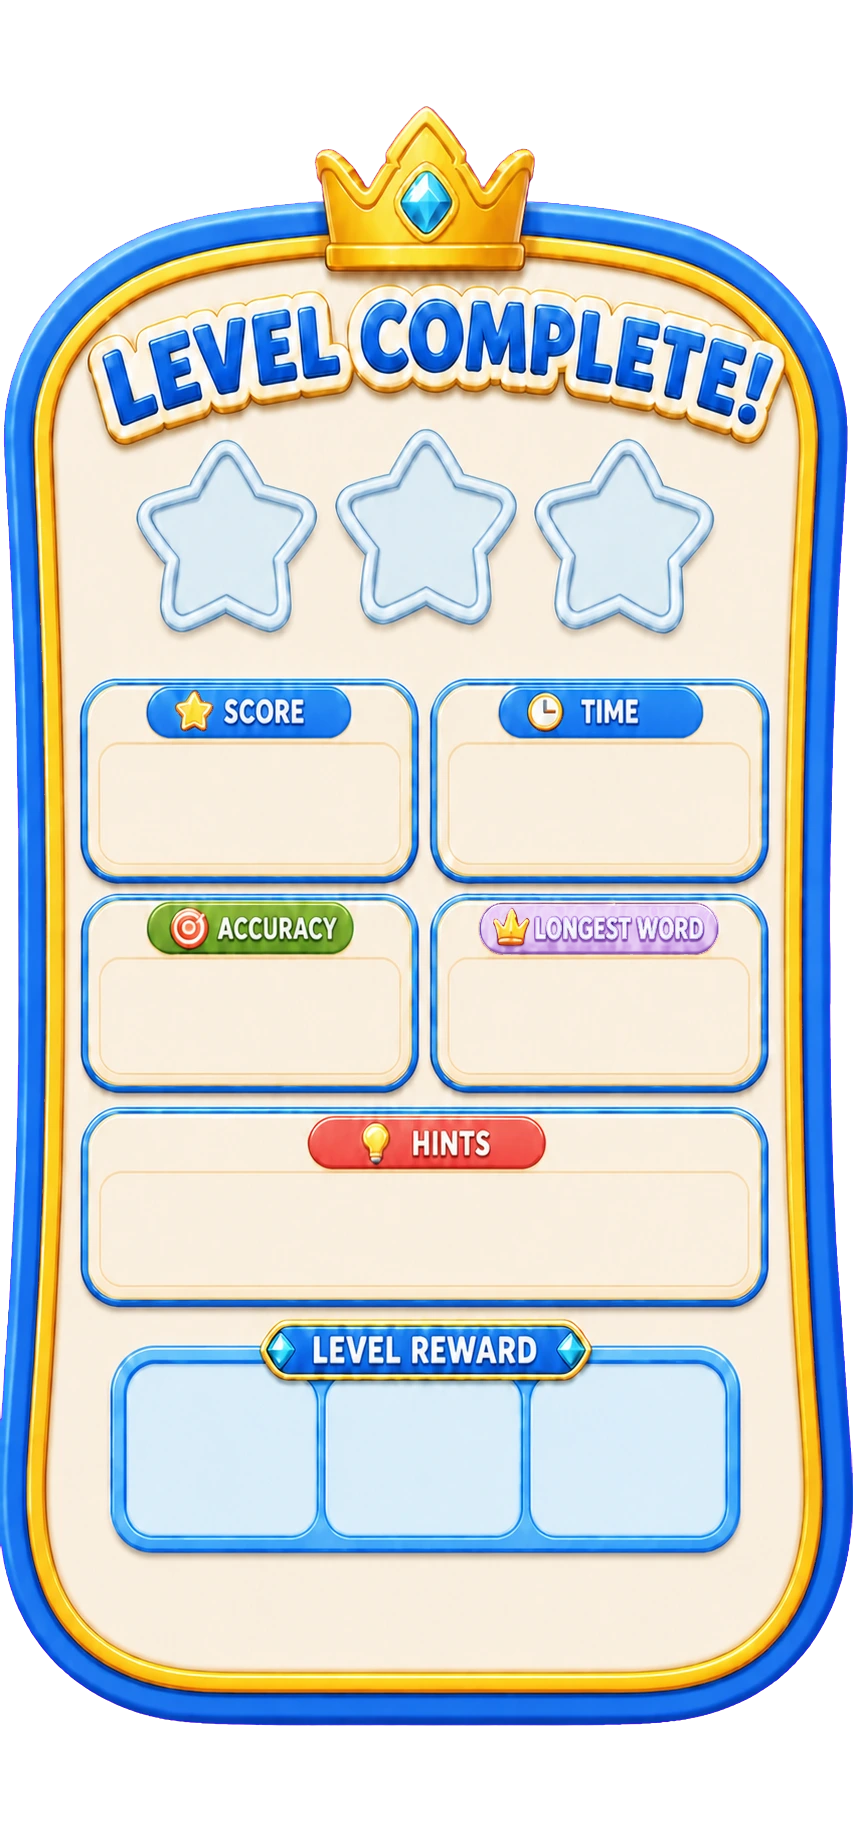
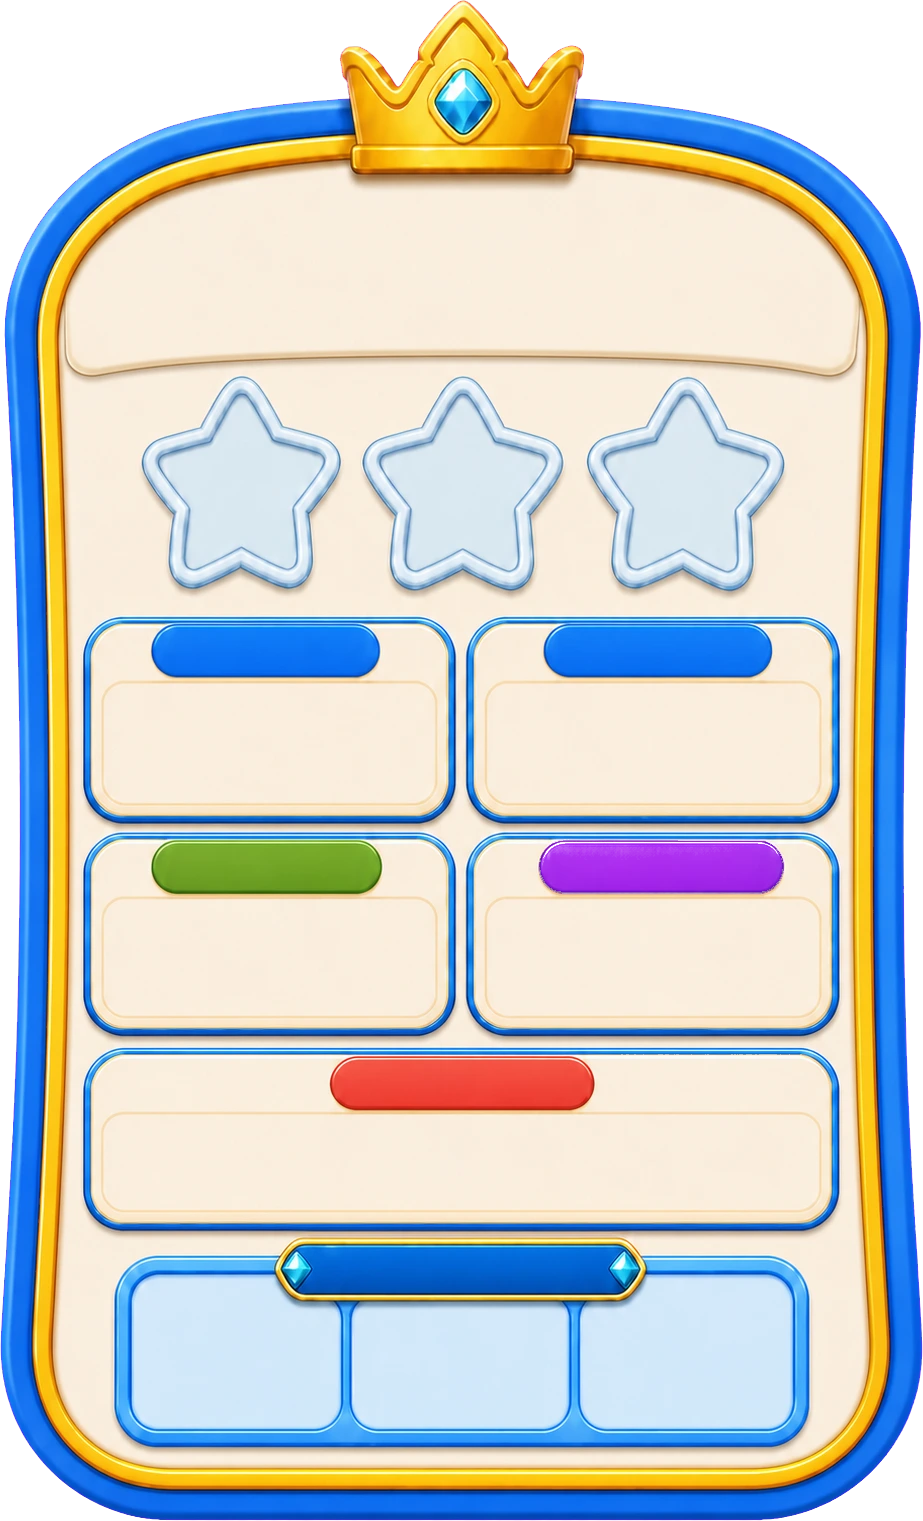
v3: rebuild Level Complete on the text-free panel art
The panel artwork no longer bakes in any copy, so every label, stat value,
star and reward amount is a runtime layer positioned from the 923x1521
source: star sockets at 26.06/50.11/74.32% (row centre 31.07%), stat chips
at 42.77% and 56.97%, hints at 71.24%, the reward ribbon at 82.97% and the
three reward cells at 25.51/49.73/74.21%. One panel now serves a clean win
and a missed objective alike.

Drops the green CTA. The player just accepts the result, so the panel
itself is the affordance -- it stays a real <button> to keep keyboard
focus, Enter/Space and a screen-reader announcement, with a pulsing
"Tap to continue" hint underneath.

Also swaps the placeholder hint glyph for the real lightbulb art and adds
the closed/open chest pair for the levels 4-5 flow.

Repairs an alpha defect in the source panel: the LONGEST WORD chip shipped
at alpha 53, so it rendered as a translucent smear over the parchment
(11,434 semi-transparent pixels against 1,230 solid ones). Alpha is scaled
x4.8 within the chip's bounding box only, which lifts the fill to 254 while
leaving the antialiased edges intact.

Verified at 390px (340x560) and 360x740 (332x547): the panel fits with room
to spare on both.

Claude-Session: https://claude.ai/code/session_013nGM4LHPS8iuXCTnvGr8aw

diff --git a/app/v3/LevelCompletePanel.module.css b/app/v3/LevelCompletePanel.module.css
@@ -1,14 +1,13 @@
 /*
  * Level Complete panel.
  *
- * Every surface is the supplied artwork; only the numbers, the lit stars, the reward
- * amounts and the button label are live. Percentages are measured from panel.webp
- * (853x1844): star sockets at 26.44/49.94/73.27% across with their centre at 30.2% down,
- * the stat boxes running between blue borders at 9.91-48.65% and 50.76-89.57%, and the
- * three reward cells at 25.91/49.47/73.51% with their centre at 78.1% down.
+ * The artwork is text-free: every label, value and title below is a runtime layer, so the
+ * same panel serves a win and a missed objective. Percentages are measured from
+ * panel.webp (923x1521) — star sockets at 26.06/50.11/74.32% with their row centre at
+ * 31.07%, the stat chips at 42.77% and 56.97%, the hints chip at 71.24%, the reward
+ * ribbon at 82.97% and the three reward cells at 25.51/49.73/74.21%.
  *
- * The artwork still has its labels painted in, so the copy here is English-only until a
- * text-free texture arrives; the layout below does not depend on that changing.
+ * There is no button: the whole panel is the continue affordance.
  */
 .overlay {
   position: fixed;
@@ -22,16 +21,27 @@
   animation: levelCompleteFade 200ms ease-out both;
 }
 
+/* The panel itself accepts the tap, so it is a button with all the chrome stripped. */
 .panel {
   position: relative;
   width: min(340px, calc(100vw - 28px));
-  aspect-ratio: 853 / 1844;
-  /* Never taller than the screen, even on a short phone. */
+  aspect-ratio: 923 / 1521;
   max-height: calc(100dvh - 24px);
+  margin: 0;
+  border: 0;
+  padding: 0;
+  background: transparent;
   color: #3c2a14;
+  font: inherit;
+  text-align: inherit;
   filter: drop-shadow(0 14px 26px rgba(24,16,8,.34));
   animation: levelCompletePop 300ms cubic-bezier(.2,.85,.3,1.3) both;
+  cursor: pointer;
+  -webkit-tap-highlight-color: transparent;
 }
+
+.panel:active { transform: scale(.985); }
+.panel:focus-visible { outline: 3px solid #fff2b0; outline-offset: 6px; border-radius: 22px; }
 
 .art {
   position: absolute;
@@ -43,52 +53,96 @@
   user-select: none;
 }
 
+/* Title ------------------------------------------------------------------ */
+
+.title {
+  position: absolute;
+  left: 50%;
+  top: 21.4%;
+  width: 74%;
+  margin: 0;
+  transform: translate(-50%,-50%);
+  color: #17509e;
+  font-family: var(--game-headline)!important;
+  font-weight: 700;
+  font-size: clamp(17px,5.2vw,23px);
+  line-height: 1.05;
+  letter-spacing: -.01em;
+  text-align: center;
+  text-transform: uppercase;
+  text-shadow: 0 2px 0 rgba(255,255,255,.85);
+}
+
 /* Stars ------------------------------------------------------------------ */
 
 .star {
   position: absolute;
-  top: 30.2%;
-  /* Sized to cover the pale socket rather than sit inside it. */
-  width: 19.4%;
+  top: 31.07%;
+  width: 18.5%;
   transform: translate(-50%,-50%);
   pointer-events: none;
 }
 
-.star[data-slot="0"] { left: 26.44%; }
-.star[data-slot="1"] { left: 49.94%; }
-.star[data-slot="2"] { left: 73.27%; }
+.star[data-slot="0"] { left: 26.06%; }
+.star[data-slot="1"] { left: 50.11%; }
+.star[data-slot="2"] { left: 74.32%; }
 
-/* Stats ------------------------------------------------------------------ */
+/* Stat chips and values -------------------------------------------------- */
+
+.label {
+  position: absolute;
+  transform: translate(-50%,-50%);
+  width: 26%;
+  color: #fff;
+  font-family: var(--game-display);
+  font-weight: 700;
+  font-size: clamp(8px,2.5vw,11px);
+  line-height: 1;
+  letter-spacing: .02em;
+  text-align: center;
+  text-transform: uppercase;
+  white-space: nowrap;
+  text-shadow: 0 1px 1px rgba(24,40,90,.55);
+  pointer-events: none;
+}
 
 .value {
   position: absolute;
   transform: translate(-50%,-50%);
   display: grid;
   place-items: center;
-  width: 34%;
+  width: 30%;
   overflow: hidden;
   color: #6a4318;
   font-family: var(--game-display);
   font-weight: 700;
-  font-size: clamp(13px,4.2vw,19px);
+  font-size: clamp(13px,4.1vw,18px);
   line-height: 1;
   white-space: nowrap;
   text-shadow: 0 1px 0 rgba(255,255,255,.7);
+  pointer-events: none;
 }
 
-.score    { left: 29.3%; top: 43%; }
-.time     { left: 70.2%; top: 43%; }
-.accuracy { left: 29.3%; top: 55.4%; }
-.longest  { left: 70.2%; top: 55.4%; font-size: clamp(11px,3.6vw,16px); }
-.hints    { left: 49.9%; top: 66.4%; width: 70%; }
+.scoreLabel    { left: 28.71%; top: 42.77%; }
+.timeLabel     { left: 71.24%; top: 42.77%; }
+.accuracyLabel { left: 28.82%; top: 56.97%; }
+.longestLabel  { left: 71.20%; top: 56.97%; width: 30%; }
+.hintsLabel    { left: 50%;    top: 71.24%; }
+.rewardLabel   { left: 50%;    top: 82.97%; width: 44%; }
+
+.score    { left: 28.71%; top: 48.7%; }
+.time     { left: 71.24%; top: 48.7%; }
+.accuracy { left: 28.82%; top: 62.9%; }
+.longest  { left: 71.24%; top: 62.9%; font-size: clamp(11px,3.5vw,15px); }
+.hints    { left: 50%;    top: 77.1%; width: 60%; }
 
 /* Rewards ---------------------------------------------------------------- */
 
 .rewards {
   position: absolute;
-  left: 14%;
-  right: 14%;
-  top: 78.1%;
+  left: 12%;
+  right: 12%;
+  top: 89.9%;
   transform: translateY(-50%);
   display: flex;
   align-items: center;
@@ -96,67 +150,61 @@
   margin: 0;
   padding: 0;
   list-style: none;
+  pointer-events: none;
 }
 
 .reward {
   flex: 1 1 0;
   display: grid;
-  place-items: center;
-  gap: 2px;
+  grid-auto-flow: column;
+  align-items: center;
+  justify-content: center;
+  gap: 3px;
   min-width: 0;
 }
 
 .reward img {
   width: auto;
-  height: clamp(22px,6.6vw,30px);
+  height: clamp(20px,6vw,27px);
   object-fit: contain;
   filter: drop-shadow(0 2px 2px rgba(60,40,12,.28));
 }
 
 .reward b {
-  color: #5d3a12;
+  color: #2f4a86;
   font-family: var(--game-display);
   font-weight: 700;
   font-size: clamp(10px,3.1vw,13px);
   line-height: 1;
   white-space: nowrap;
-  text-shadow: 0 1px 0 rgba(255,255,255,.75);
+  text-shadow: 0 1px 0 rgba(255,255,255,.8);
 }
 
 /* A reward the level did not grant stays visible but reads as unearned. */
-.reward[data-earned="false"] { opacity: .32; filter: grayscale(.75); }
+.reward[data-earned="false"] { opacity: .34; filter: grayscale(.7); }
 
-/* Action ----------------------------------------------------------------- */
+/* Prompt ----------------------------------------------------------------- */
 
-.cta {
+.tapHint {
   position: absolute;
   left: 50%;
-  top: 88%;
-  width: 62%;
-  min-height: 46px;
-  display: grid;
-  place-items: center;
-  padding: 0 10px;
-  transform: translate(-50%,-50%);
-  border: 3px solid #fff;
-  border-radius: 14px;
-  color: #fff;
-  background: linear-gradient(180deg,#5bd45a,#1f9b3f);
-  box-shadow: 0 4px 0 #14702c, 0 8px 14px rgba(12,60,24,.3);
-  font-family: var(--game-display)!important;
-  font-weight: 700!important;
-  font-size: clamp(14px,4.3vw,18px)!important;
-  letter-spacing: .02em;
-  text-shadow: 0 2px 0 rgba(20,80,36,.7);
+  bottom: -26px;
+  transform: translateX(-50%);
+  color: #dceaff;
+  font-family: var(--game-ui);
+  font-size: clamp(10px,3vw,12px);
+  font-weight: 700;
+  letter-spacing: .05em;
+  text-transform: uppercase;
+  text-shadow: 0 1px 3px rgba(2,12,34,.7);
   white-space: nowrap;
-  cursor: pointer;
+  pointer-events: none;
+  animation: tapHintPulse 1.7s ease-in-out infinite;
 }
-
-.cta:active { transform: translate(-50%,calc(-50% + 2px)); box-shadow: 0 2px 0 #14702c; }
-.cta:focus-visible { outline: 3px solid #fff2b0; outline-offset: 3px; }
 
 @keyframes levelCompleteFade { from { opacity: 0; } to { opacity: 1; } }
 @keyframes levelCompletePop { 0% { opacity: 0; transform: scale(.86) translateY(12px); } 100% { opacity: 1; transform: scale(1) translateY(0); } }
+@keyframes tapHintPulse { 0%,100% { opacity: .55; } 50% { opacity: 1; } }
 
 @media (prefers-reduced-motion: no-preference) {
   /* Stars land one after another so three stars feel earned rather than stamped. */
@@ -181,5 +229,5 @@
 }
 
 @media (prefers-reduced-motion: reduce) {
-  .overlay, .panel { animation: none!important; }
+  .overlay, .panel, .tapHint { animation: none!important; }
 }

diff --git a/app/v3/LevelCompletePanel.tsx b/app/v3/LevelCompletePanel.tsx
@@ -1,21 +1,18 @@
 "use client";
 
+import { useEffect, useRef } from "react";
 import styles from "./LevelCompletePanel.module.css";
 import { formatRewardAmount, levelRewardLabel, levelRewardSlots } from "@/game/v3/level-complete-rewards";
 import type { LevelRewardInput, LevelRewardSlot } from "@/game/v3/level-complete-rewards";
 
-/*
- * The hint icon is a placeholder. Codex's reward sheet currently ships a lightning bolt
- * for this slot, but the reward is hints, so the glyph the game already uses for hints
- * stands in until the drawn lightbulb arrives. Swapping it is one line.
- */
-const REWARD_ART: Record<LevelRewardSlot["kind"], { src?: string; glyph?: string; alt: string }> = {
+const REWARD_ART: Record<LevelRewardSlot["kind"], { src: string; alt: string }> = {
   coins: { src: "/level-complete/reward-coin.webp", alt: "Coins" },
-  hints: { glyph: "💡", alt: "Hints" },
+  hints: { src: "/level-complete/reward-hint.webp", alt: "Hints" },
   card: { src: "/level-complete/reward-card.webp", alt: "Royal card" },
 };
 
 export function LevelCompletePanel({
+  title,
   stars,
   score,
   timeLabel,
@@ -23,10 +20,9 @@ export function LevelCompletePanel({
   longestWord,
   hintsUsed,
   rewards,
-  cta,
   onContinue,
-  levelLabel,
 }: {
+  title: string;
   stars: number;
   score: string;
   timeLabel: string;
@@ -34,25 +30,40 @@ export function LevelCompletePanel({
   longestWord: string;
   hintsUsed: number;
   rewards: LevelRewardInput;
-  cta: string;
   onContinue: () => void;
-  levelLabel: string;
 }) {
+  const panelRef = useRef<HTMLButtonElement>(null);
   const slots = levelRewardSlots(rewards);
   const earnedStars = Math.max(0, Math.min(3, stars));
 
+  useEffect(() => { panelRef.current?.focus(); }, []);
+
   return <div className={styles.overlay}>
-    <section
+    {/*
+      * There is no separate button: the panel is the affordance. It stays a real <button>
+      * so it keeps keyboard focus, Enter/Space and a screen-reader announcement.
+      */}
+    <button
+      ref={panelRef}
       className={styles.panel}
-      role="dialog"
-      aria-modal="true"
-      aria-label={`${levelLabel} complete, ${earnedStars} of 3 stars`}
+      type="button"
+      onClick={onContinue}
+      aria-label={`${title}. ${earnedStars} of 3 stars. Tap to continue.`}
     >
       <img className={styles.art} src="/level-complete/panel.webp" alt="" />
+
+      <h1 className={styles.title}>{title}</h1>
 
       {[0, 1, 2].filter((slot) => slot < earnedStars).map((slot) => (
         <img className={styles.star} data-slot={slot} key={slot} src="/level-complete/star-gold.webp" alt="" />
       ))}
+
+      <span className={`${styles.label} ${styles.scoreLabel}`}>Score</span>
+      <span className={`${styles.label} ${styles.timeLabel}`}>Time</span>
+      <span className={`${styles.label} ${styles.accuracyLabel}`}>Accuracy</span>
+      <span className={`${styles.label} ${styles.longestLabel}`}>Longest Word</span>
+      <span className={`${styles.label} ${styles.hintsLabel}`}>Hints</span>
+      <span className={`${styles.label} ${styles.rewardLabel}`}>Level Reward</span>
 
       <span className={`${styles.value} ${styles.score}`}>{score}</span>
       <span className={`${styles.value} ${styles.time}`}>{timeLabel}</span>
@@ -60,19 +71,16 @@ export function LevelCompletePanel({
       <span className={`${styles.value} ${styles.longest}`}>{longestWord || "—"}</span>
       <span className={`${styles.value} ${styles.hints}`}>{hintsUsed}</span>
 
-      <ul className={styles.rewards} aria-label="Level reward">
-        {slots.map((slot) => {
-          const art = REWARD_ART[slot.kind];
-          return <li className={styles.reward} data-earned={slot.earned} key={slot.kind} aria-label={levelRewardLabel(slot)}>
-            {art.src
-              ? <img src={art.src} alt="" aria-hidden="true" />
-              : <span aria-hidden="true" style={{ fontSize: "clamp(20px,6vw,28px)", lineHeight: 1 }}>{art.glyph}</span>}
+      <ul className={styles.rewards}>
+        {slots.map((slot) => (
+          <li className={styles.reward} data-earned={slot.earned} key={slot.kind} aria-label={levelRewardLabel(slot)}>
+            <img src={REWARD_ART[slot.kind].src} alt="" aria-hidden="true" />
             <b>{formatRewardAmount(slot)}</b>
-          </li>;
-        })}
+          </li>
+        ))}
       </ul>
 
-      <button className={styles.cta} type="button" onClick={onContinue}>{cta}</button>
-    </section>
+      <span className={styles.tapHint} aria-hidden="true">Tap to continue</span>
+    </button>
   </div>;
 }

diff --git a/app/v3/WordKingdomV3.tsx b/app/v3/WordKingdomV3.tsx
@@ -2723,8 +2723,11 @@ function LevelOneResults({ summary, onContinue }: { summary: V3RunSummary; onCon
 }
 
 function ConquestCompletePanel({ summary, title, cta, onContinue }: { summary: V3RunSummary; title: string; cta: string; onContinue: () => void }) {
+  // `cta` is retained by the call sites but the panel no longer shows a button: the whole
+  // panel is the continue affordance, so the label would be a second, competing target.
+  void cta;
   return <LevelCompletePanel
-    levelLabel={title}
+    title={title}
     stars={summary.objectiveComplete ? summary.stars : 0}
     score={formatNumber(summary.score)}
     timeLabel={`${summary.elapsedSeconds}s`}
@@ -2737,7 +2740,6 @@ function ConquestCompletePanel({ summary, title, cta, onContinue }: { summary: V
       hints: summary.objectiveComplete && isScheduledHintRefill(summary.node.level) ? HINT_POOL_REFILL_AMOUNT : 0,
       cards: summary.packResult?.cards.length ?? 0,
     }}
-    cta={cta}
     onContinue={onContinue}
   />;
 }
